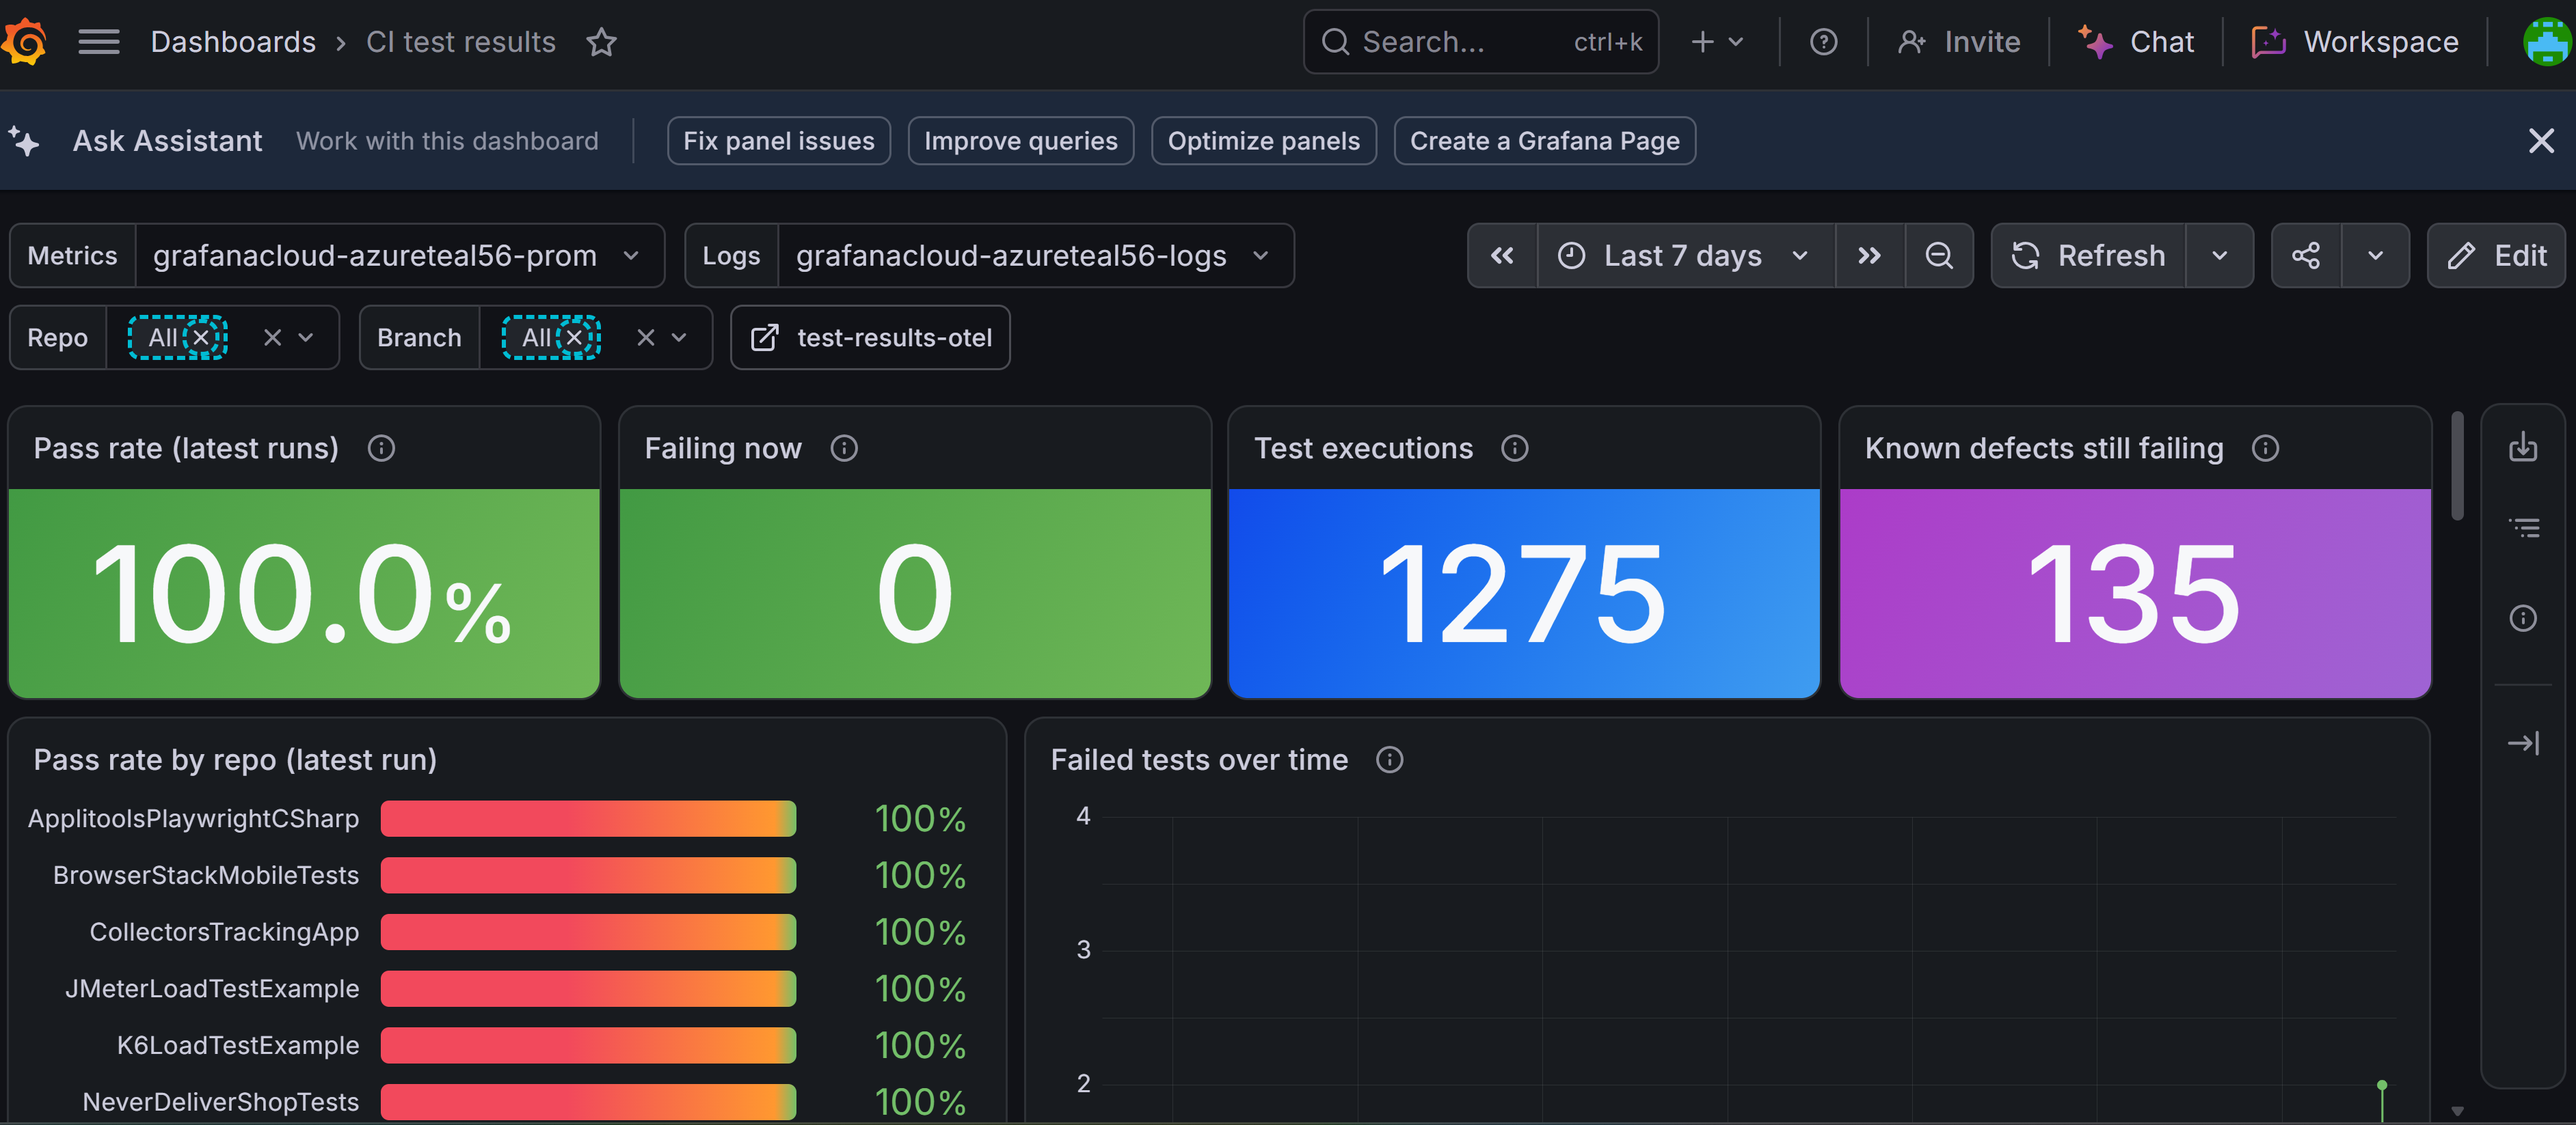
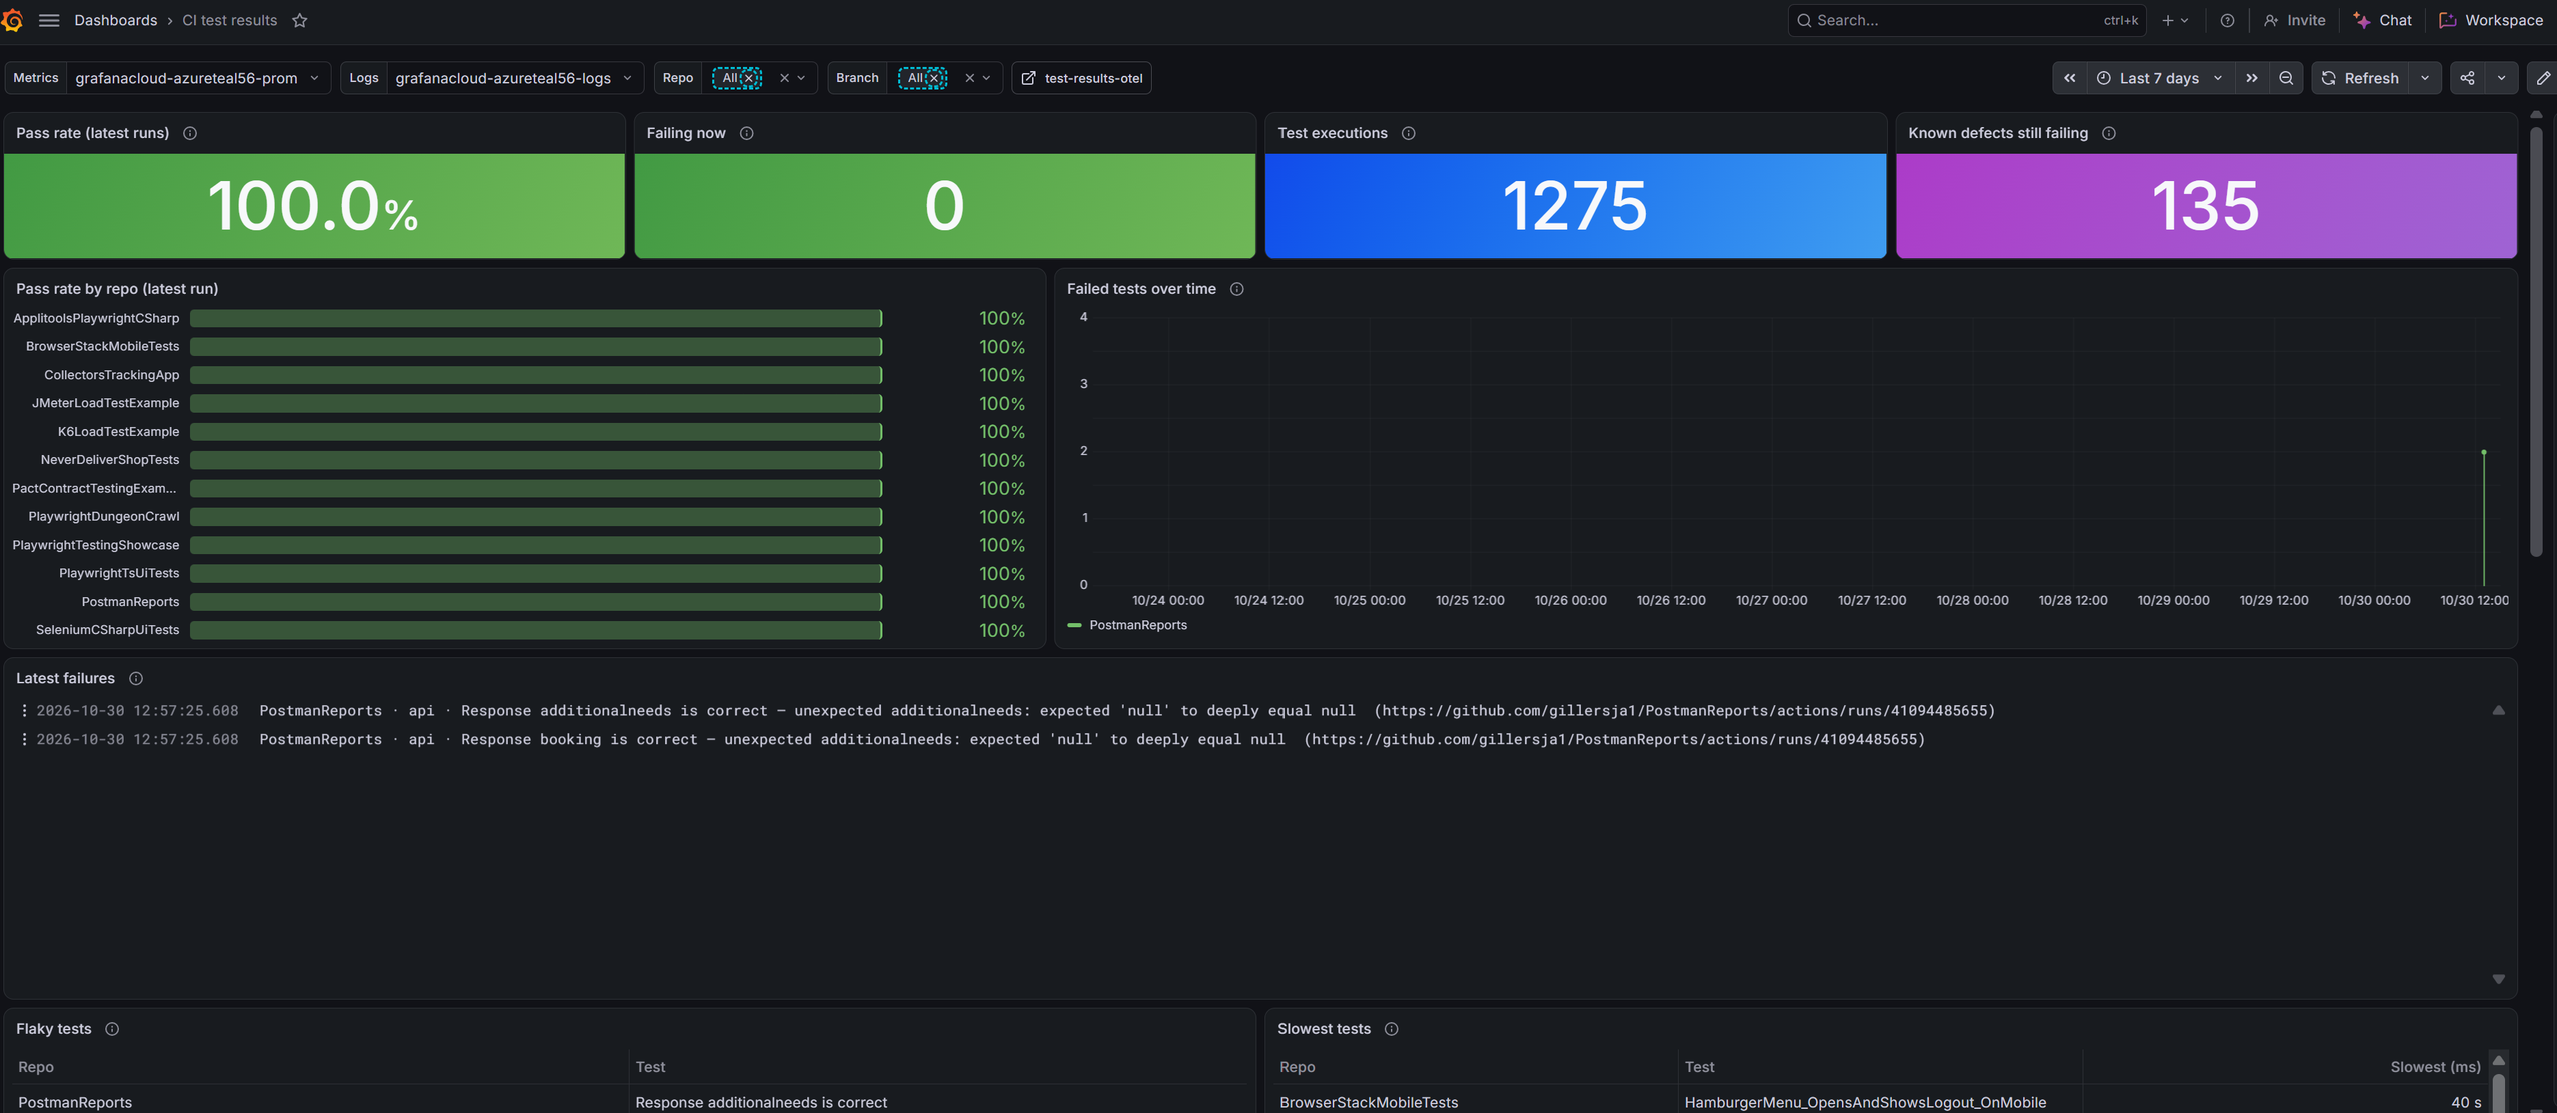
Show only the formatted line in Latest failures and refresh the screenshot

diff --git a/dashboards/build_dashboard.py b/dashboards/build_dashboard.py
@@ -121,7 +121,9 @@ add({
     "datasource": LOKI,
     "targets": [loki(
         f'{LOKI_SEL} | {GATE} | test_case_result_status="fail" '
-        '| line_format "{{.service_name}} · {{.test_suite_name}} · {{.test_case_name}} — {{.test_message}}  ({{.cicd_pipeline_run_url_full}})"')],
+        '| line_format "{{.service_name}} · {{.test_suite_name}} · {{.test_case_name}} — {{.test_message}}  ({{.cicd_pipeline_run_url_full}})" '
+        # Grafana prints every remaining field after the line; the line already has what matters.
+        '| keep service_name')],
     "options": {"showTime": True, "wrapLogMessage": True, "sortOrder": "Descending", "enableLogDetails": True, "showLabels": False, "showCommonLabels": False,
                 "dedupStrategy": "none", "prettifyLogMessage": False},
 }, 0, 14, 24, 9)
